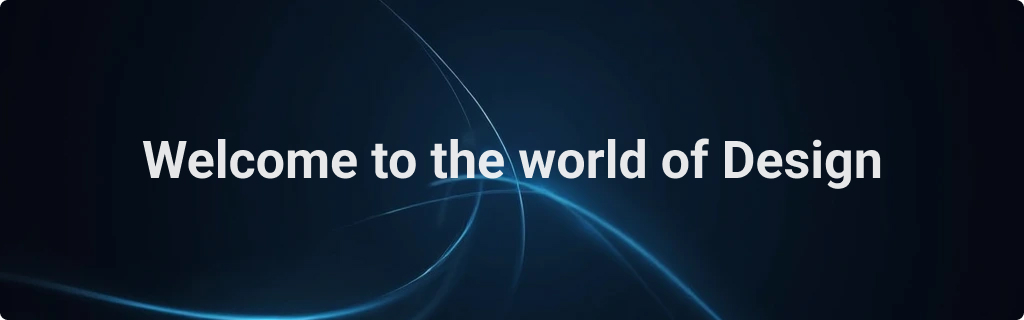
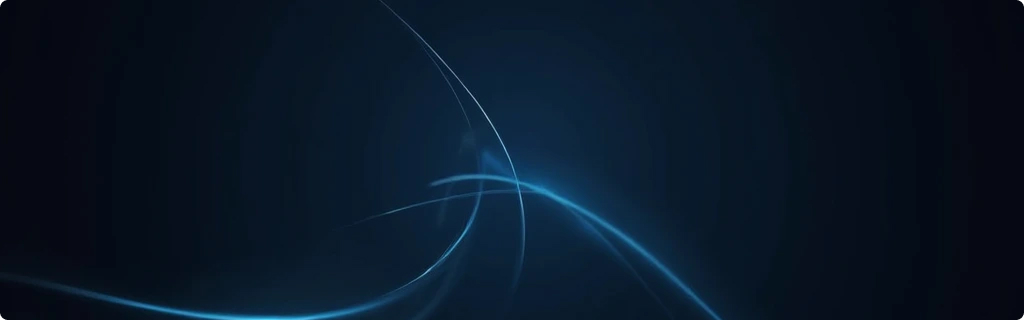
fix: adaptive on community page

Changed region(s): [[0.125, 0.4375, 0.875, 0.5938]]

diff --git a/src/widgets/common/banner/BannerWidget.tsx b/src/widgets/common/banner/BannerWidget.tsx
@@ -25,7 +25,11 @@ function BannerWidget({
         title={widgetTitle}
         actions={<LabelButton color="white">Read more</LabelButton>}
       />
-      <StyledImage src={data.imageSrc} />
+
+      <StyledBannerWrapper>
+        <StyledImage src={data.imageSrc} />
+        <StyledBannerText>Welcome to the world of Design</StyledBannerText>
+      </StyledBannerWrapper>
     </StyledBannerWidgetWrapper>
   );
 }
@@ -36,6 +40,27 @@ const StyledBannerWidgetWrapper = styled.div`
   ${widgetWrapperCss}
 `;
 
+const StyledBannerWrapper = styled.div`
+  position: relative;
+`;
+
 const StyledImage = styled.img`
+  height: 320px;
   border-radius: ${Radius.RADIUS_8};
+`;
+
+const StyledBannerText = styled.div`
+  position: absolute;
+  top: 50%;
+  left: 40%;
+  transform: translate(-30%, -50%);
+
+  font-weight: 700;
+  font-size: 42px;
+  text-align: center;
+
+  @media (max-width: 1280px) {
+    left: 30%;
+    transform: translate(-20%, -50%);
+  }
 `;

diff --git a/src/widgets/community/courses/CourseCard.tsx b/src/widgets/community/courses/CourseCard.tsx
@@ -89,7 +89,7 @@ const StyledCreatorInfo = styled.div`
   display: flex;
   align-items: center;
   gap: 6px;
-  margin-bottom: 10px;
+  margin-bottom: 12px;
 `;
 
 const StyledTier = styled.div<{ level: CourseTier }>`
@@ -106,9 +106,7 @@ const StyledTier = styled.div<{ level: CourseTier }>`
 
 const StyledCreatorName = withAttrs(
   { variant: 'body-3', $color: Color.WHITE_70 },
-  styled(Typography)`
-    margin-bottom: 4px;
-  `,
+  Typography,
 );
 
 const StyledTitle = withAttrs(

diff --git a/src/widgets/community/courses/CoursesWidget.tsx b/src/widgets/community/courses/CoursesWidget.tsx
@@ -45,4 +45,18 @@ const StyledCourseList = styled.div`
   display: grid;
   grid-template-columns: repeat(4, 1fr);
   gap: 8px;
+
+  @media (max-width: 1650px) {
+    grid-template-columns: repeat(3, 1fr);
+    & > *:nth-child(4n) {
+      display: none;
+    }
+  }
+
+  @media (max-width: 1280px) {
+    grid-template-columns: repeat(2, 1fr);
+    & > *:nth-child(3n) {
+      display: none;
+    }
+  }
 `;

diff --git a/src/pages/community/CommunityPage.tsx b/src/pages/community/CommunityPage.tsx
@@ -56,8 +56,17 @@ const StyledTopBar = styled(TopBar)`
 `;
 
 const StyledNewsWrapper = styled.div`
-  display: flex;
+  display: grid;
+  grid-template-columns: repeat(3, 1fr);
   gap: 16px;
+
+  @media (max-width: 1650px) {
+    grid-template-columns: repeat(2, 1fr);
+  }
+
+  @media (max-width: 1280px) {
+    grid-template-columns: repeat(1, 1fr);
+  }
 `;
 
 const StyledNews = styled(News)`
